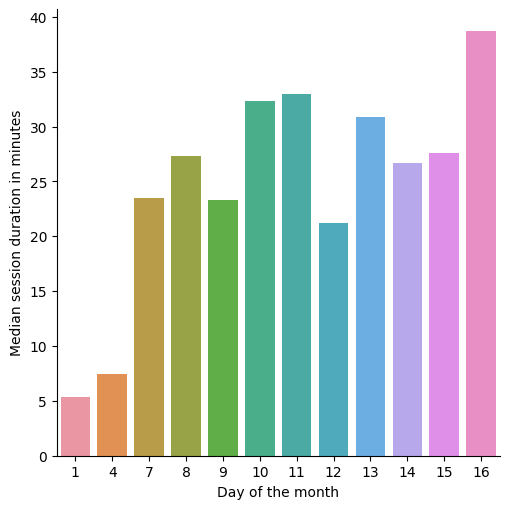
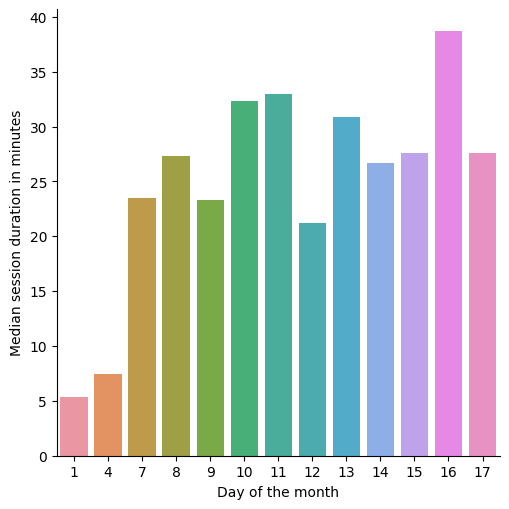
"Stats generated 2021-10-18"

diff --git a/all/2021/10/days/17/index.html b/all/2021/10/days/17/index.html
@@ -1,0 +1,29 @@
+<!DOCTYPE html>
+<html>
+  <head>
+    <meta charset="utf-8"/>
+    <title>17 October 2021</title>
+    <link rel="stylesheet" href="../../../../../styles.css"/>
+  </head>
+  <body>
+    <div id="container">
+      <nav>
+        <ul>
+          
+            <li><a href="../../">October 2021</a></li>
+            <li class="separator"></li>
+          
+          
+        </ul>
+      </nav>
+      <main>
+        <h1>17 October 2021</h1>
+        
+          <h2>Number of sessions per hour</h2>
+          <img src="sessions.png" alt="Number of sessions per hour"/>
+        
+        
+      </main>
+    </div>
+  </body>
+</html>

diff --git a/all/2021/index.html b/all/2021/index.html
@@ -143,9 +143,9 @@
                   
                     <td>10.0</td>
                   
-                    <td>97.0</td>
+                    <td>107.0</td>
                   
-                    <td>25.82195838333333</td>
+                    <td>25.924009783333336</td>
                   
                 </tr>
               

diff --git a/all/2021/10/index.html b/all/2021/10/index.html
@@ -98,6 +98,10 @@
               <li><a href="days/16/">16</a></li>
             
           
+            
+              <li><a href="days/17/">17</a></li>
+            
+          
         </ul>
       </nav>
       <main>
